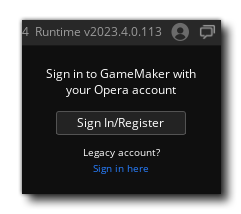
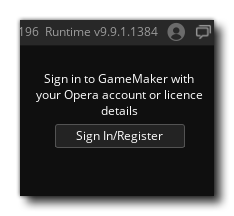
docs(feature): Ensure new Authentication logic is public and enabled by default YoYoGames/YoYoStudio#12249
* Updated screenshots on the Reporting Errors and Licencing & Logging In pages
* Removed the "Legacy Sign In & Proxy" section from the Licencing & Logging In page, updated the description

Changed region(s): [[0.1496, 0.3084, 0.8675, 0.8131], [0.0598, 0.0841, 0.9274, 0.9252]]

diff --git a/Manual/contents/Setting_Up_And_Version_Information/Licencing_Information.htm b/Manual/contents/Setting_Up_And_Version_Information/Licencing_Information.htm
@@ -16,14 +16,11 @@
   <!--<div class="body-scroll" style="top: 150px;">-->
   <h1 id="h"><span data-field="title" data-format="default">Licencing &amp; Logging In</span></h1>
   <p>You can start and use <span data-keyref="GameMaker Name">GameMaker</span> without making an account. You will be asked to create an account when you <a href="../Introduction/Compiling.htm">create an executable</a>.</p>
-  <p>Use the <a data-xref="{title}" href="../IDE_Navigation/Menus/Version_&amp;_Account_Details.htm">Version &amp; Account Details</a> menu to sign in before creating executables. You can use an <strong>Opera account</strong> to sign in, or use a <strong>Legacy YoYo Account</strong>.</p>
+  <p>Use the <a data-xref="{title}" href="../IDE_Navigation/Menus/Version_&amp;_Account_Details.htm">Version &amp; Account Details</a> menu to sign in before creating executables. Clicking the <strong>Sign In/Register</strong> button opens your default web browser and takes you to the sign in page where you can choose to use an <strong>Opera account</strong> to sign in, or use a <strong>Legacy YoYo Account</strong>.</p>
   <p><img class="center" src="../assets/Images/QS_Guide/QS_SignIn.png" /></p>
   <h2>Licencing Information</h2>
   <p>For information on the various <span data-keyref="GameMaker Name">GameMaker</span> licences and obtaining them, see the links on <a data-xref="{title}" href="GMS2_Version_Information.htm">Licencing &amp; Version Information</a>.</p>
-  <p class="note"><span class="important"><strong>IMPORTANT</strong></span> After purchasing any new licence for <span data-keyref="GameMaker Name">GameMaker</span>, use the <strong>Update License</strong> option in the <a data-xref="{title}" href="../IDE_Navigation/Menus/Version_&amp;_Account_Details.htm">Version &amp; Account Details</a> menu so your new licence details are loaded.</p>
-  <h2>Legacy Sign In &amp; Proxy</h2>
-  <p>You can use a Legacy YoYo Account to sign into <span data-keyref="GameMaker Name">GameMaker</span>. This will open the following window:</p>
-  <p><img class="center" src="../assets/Images/QS_Guide/QS_sigin_legacy.png" />If you require proxy support for your installation of <span data-keyref="GameMaker Name">GameMaker</span>, this can be added simply by clicking <strong>Proxy settings</strong>. This will bring up the <a data-xref="{title}" href="IDE_Preferences/General/Proxy_Settings.htm">Proxy Preferences</a>, where you can add your proxy details. Once you have added the relevant information, click on <strong>Apply</strong> and log in to <span data-keyref="GameMaker Name">GameMaker</span>.</p>
+  <p class="note"><span data-conref="../assets/snippets/Tag_important.hts"> </span> After purchasing any new licence for <span data-keyref="GameMaker Name">GameMaker</span>, use the <strong>Update License</strong> option in the <a data-xref="{title}" href="../IDE_Navigation/Menus/Version_&amp;_Account_Details.htm">Version &amp; Account Details</a> menu so your new licence details are loaded.</p>
   <p> </p>
   <p> </p>
   <div class="footer">
